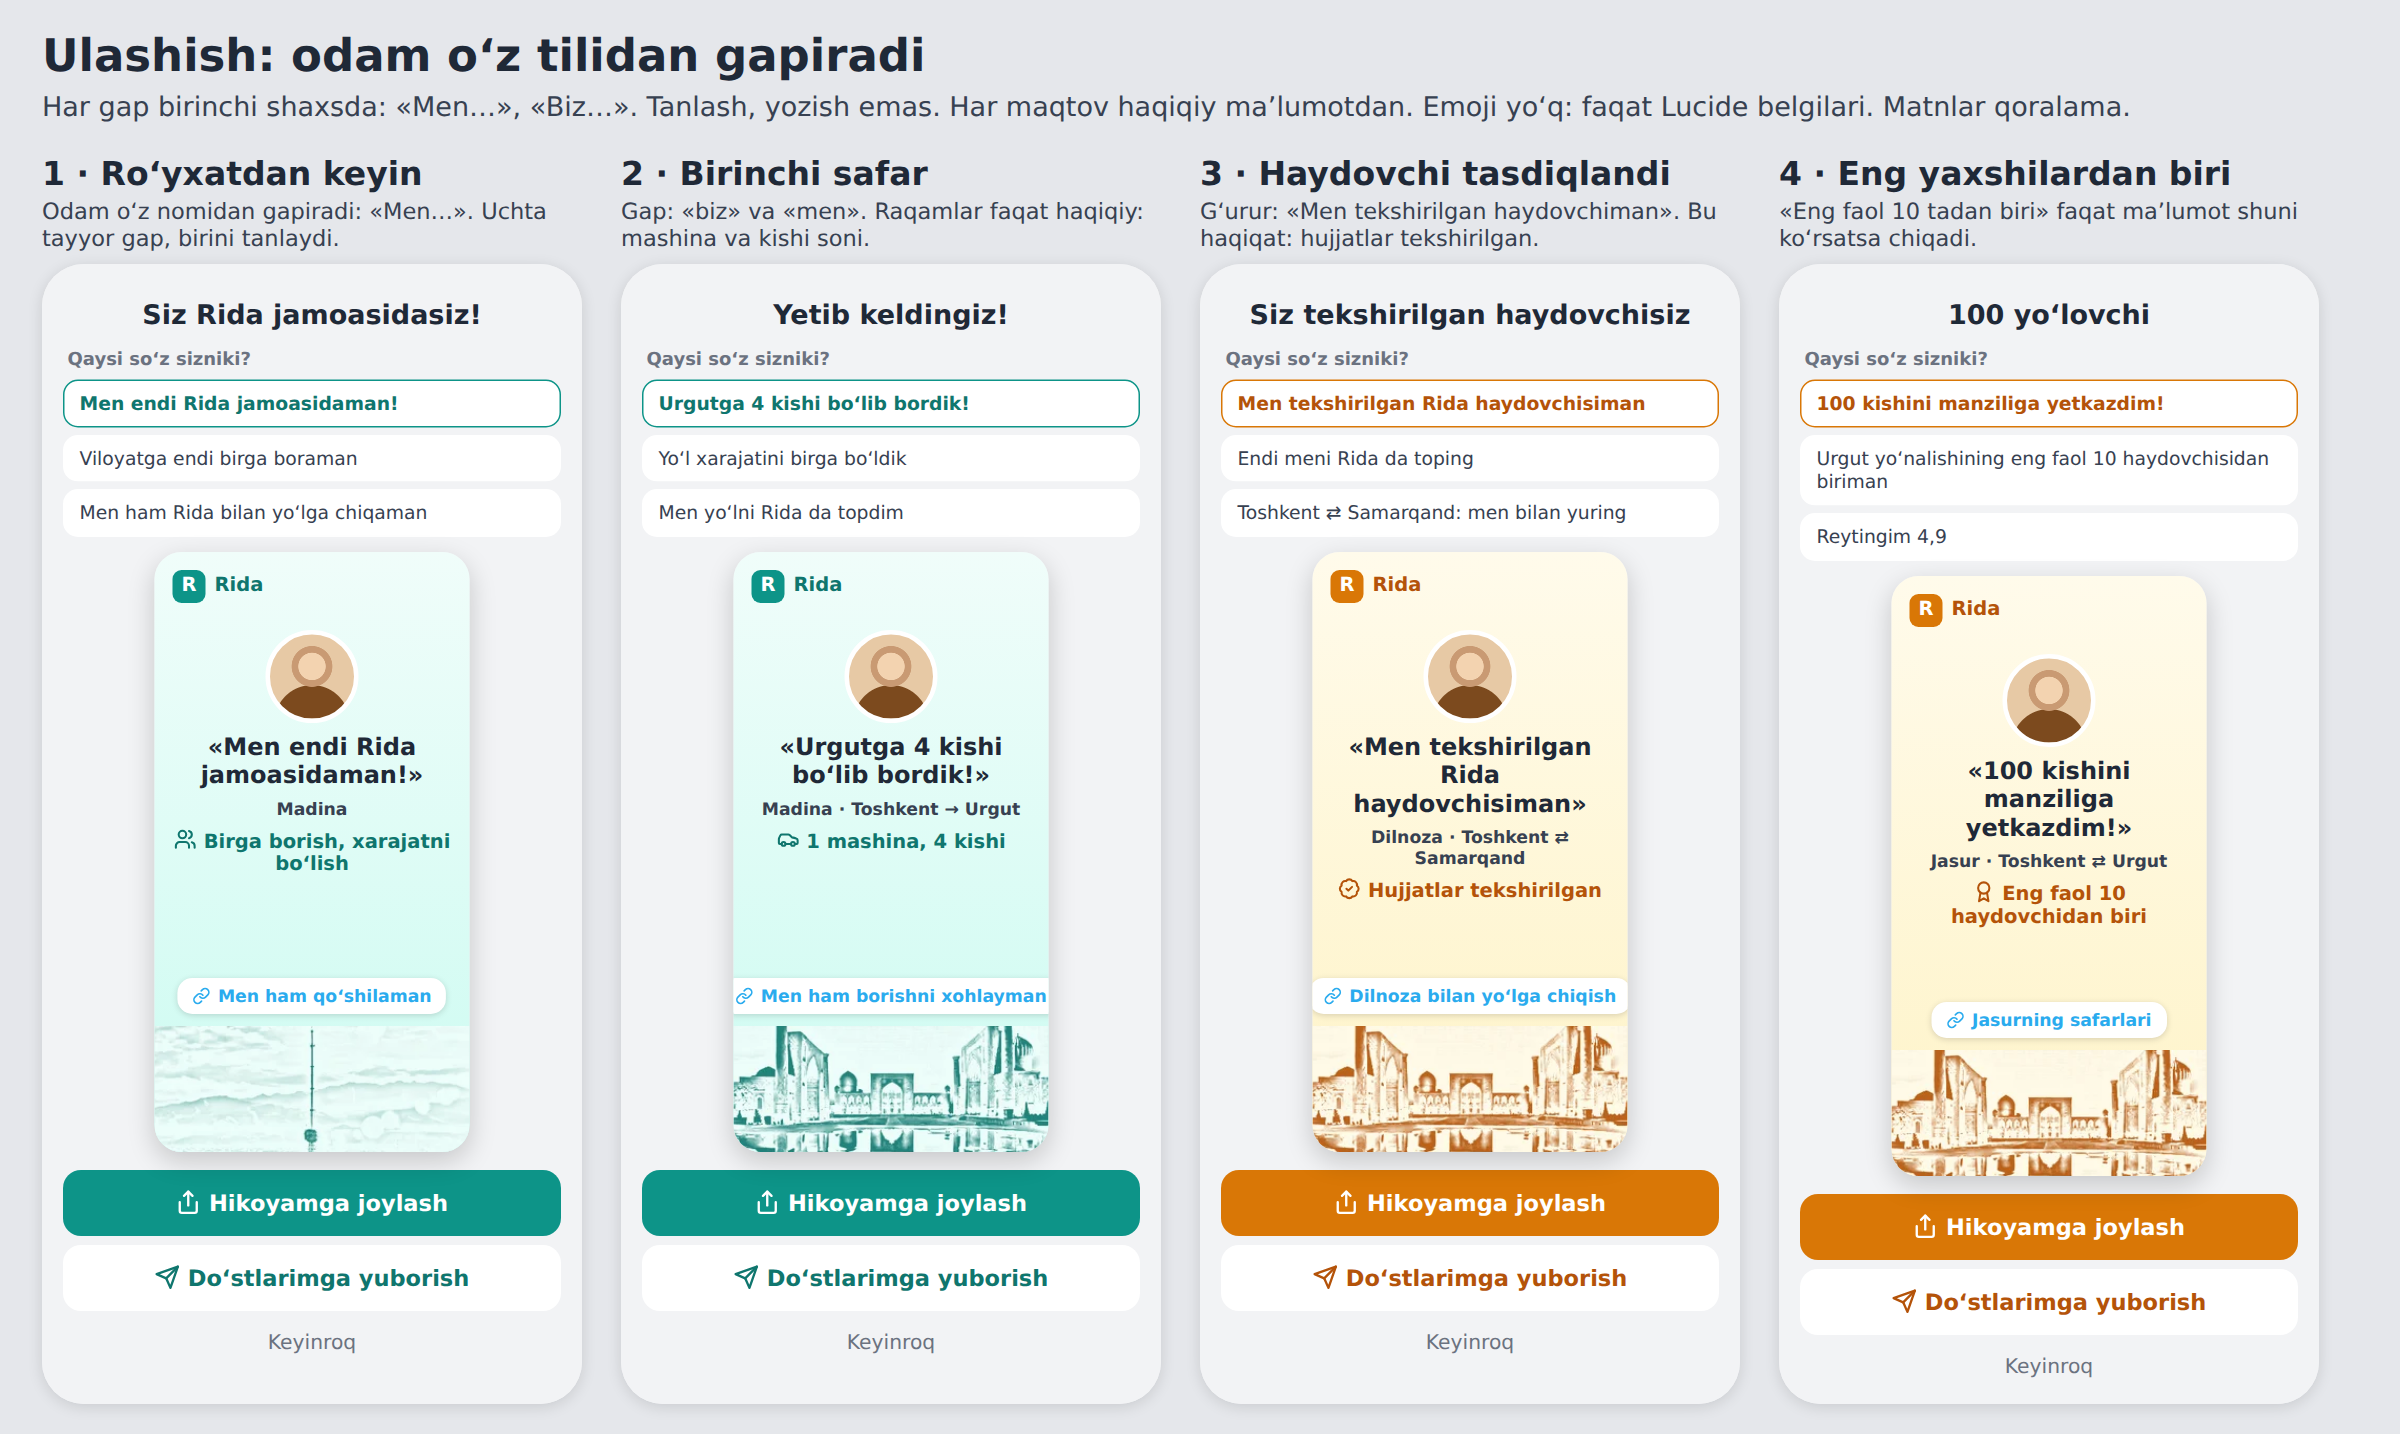
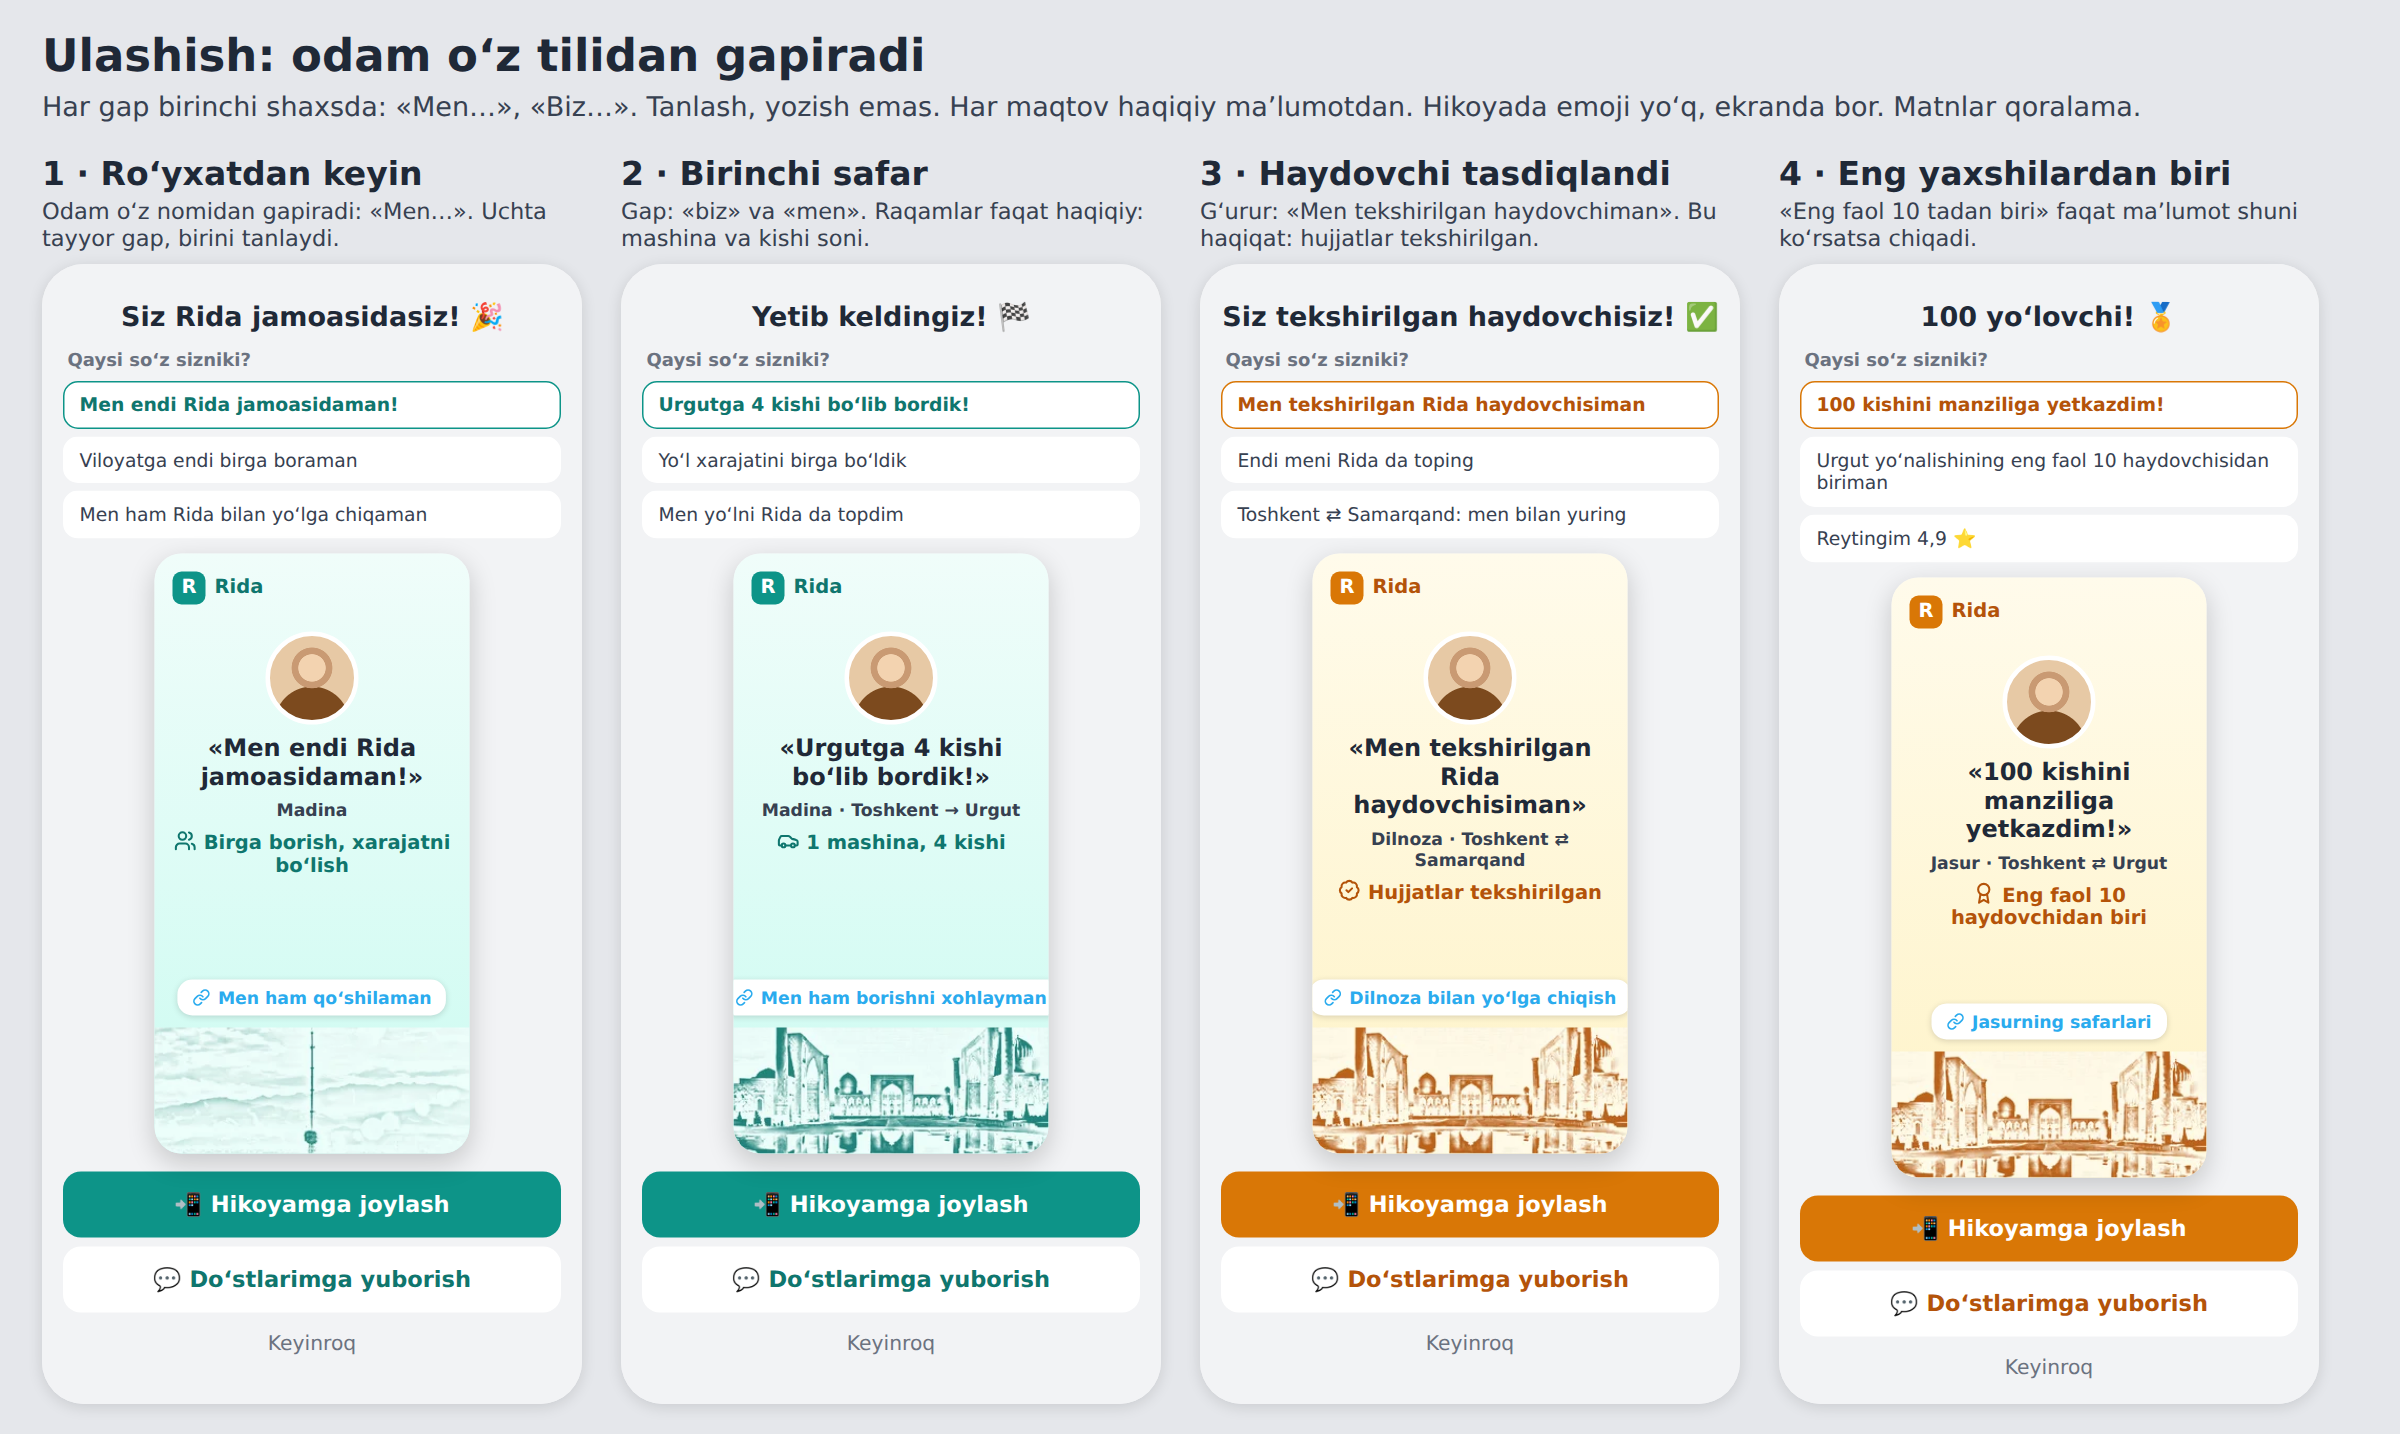
docs(123): no emoji only in stories
Claude-Session: https://claude.ai/code/session_017FSsNw3bjZgBbKY1ueaesh

diff --git a/docs/123-growth-and-education.md b/docs/123-growth-and-education.md
@@ -50,7 +50,7 @@
 | Своим голосом (решение владельца) | карточка от первого лица: «Men tekshirilgan Rida haydovchisiman», «Urgutga 4 kishi boʻlib bordik!»; человек выбирает одну из 3 готовых фраз; похвала «eng faol 10 tadan biri» только если так в данных (урок №9) |
 | Без давления | «Keyinroq» всегда есть; один момент: одно предложение; без наград деньгами до решения владельца |
 
-- Без эмодзи и смайликов (решение владельца 06.10: «это не серьёзно»): только в историях и постах ulashish, которые человек публикует (`goals/g69/4-share-post.png`): там только текст. Боты и каналы не меняются (`122`).
+- Без эмодзи и смайликов (решение владельца 06.10: «это не серьёзно»): только в историях (сторис): там только текст. Во всех остальных местах (экраны, посты в чатах, боты, каналы) всё как есть.
 - Меряем: `share_shown` и `share_done` по каждой кнопке и моменту (`29`); тексты кнопок проверяем A/B.
 
 ## 2. Инструкции (G70)

diff --git a/docs/goals/G69-growth-loops.md b/docs/goals/G69-growth-loops.md
@@ -17,7 +17,7 @@ Definition of Done
     5/10/25 поездка, водитель одобрен, 10/50/100 попутчиков; история
     (shareToStory) и чат (shareMessage); экран праздника; via=share-*.
 [ ] «Почему хочется нажать» (docs/123): выгода, вид карточки заранее,
-    кнопка с адресатом, своим голосом (3 фразы на выбор), пост и история без эмодзи, «Keyinroq»; экран «Sizning taʼsiringiz» и
+    кнопка с адресатом, своим голосом (3 фразы на выбор), история без эмодзи, «Keyinroq»; экран «Sizning taʼsiringiz» и
     знаки 1/5/25; события share_shown и share_done.
 [ ] Петля 1: QR водителя (PNG из генератора), via=qr.
 [ ] Экран «Rost»: по петле и направлению: пришли, зарегистрировались,
